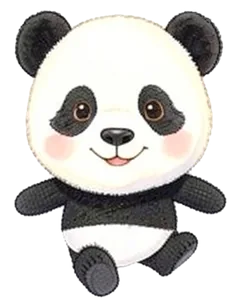
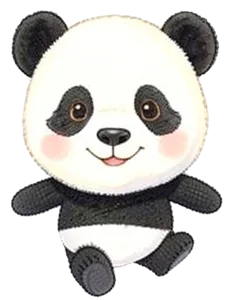
Miniroom: redraw panda back view (clean black and white, no paw pads)

diff --git a/public/js/views.js b/public/js/views.js
@@ -50,7 +50,7 @@ const MR_FRAMES = {
   '🐰': {"f0": [0.508, 0.313, 0.734, 0.664, 0.904, 0.8, 0.56, 0.107, 0.787, 0.788, 0.503], "fa": [0.505, 0.313, 0.739, 0.664, 0.893, 0.743, 0.565, 0.134, 0.7, 0.793, 0.505], "fb": [0.514, 0.307, 0.734, 0.657, 0.877, 0.723, 0.56, 0.15, 0.693, 0.832, 0.508], "s0": [0.541, 0.313, 0.647, 0.664, 0.807, 0.683, 0.457, 0.215, 0.857, 0.81, 0.543], "sa": [0.56, 0.313, 0.652, 0.664, 0.861, 0.723, 0.462, 0.052, 0.92, 0.832, 0.562], "sb": [0.541, 0.313, 0.647, 0.664, 0.899, 0.683, 0.462, 0.302, 0.81, 0.918, 0.541], "b0": [0.511, 0.32, 0.739, 0.671, 0.904, 0.8, 0.549, 0.112, 0.787, 0.799, 0.508], "ba": [0.514, 0.317, 0.734, 0.667, 0.893, 0.76, 0.538, 0.15, 0.827, 0.783, 0.514], "bb": [0.527, 0.297, 0.696, 0.647, 0.839, 0.757, 0.5, 0.237, 0.847, 0.777, 0.527]},
   '🐻': {"f0": [0.502, 0.037, 0.825, 0.654, 0.89, 0.747, 0.368, 0.115, 0.75, 0.861, 0.502], "fa": [0.502, 0.037, 0.816, 0.654, 0.876, 0.72, 0.359, 0.119, 0.673, 0.874, 0.502], "fb": [0.502, 0.027, 0.798, 0.644, 0.867, 0.663, 0.359, 0.137, 0.687, 0.888, 0.502], "s0": [0.489, 0.027, 0.735, 0.644, 0.733, 0.747, 0.408, 0.316, 0.713, 0.722, 0.482], "sa": [0.489, 0.03, 0.735, 0.647, 0.858, 0.81, 0.413, 0.151, 0.827, 0.839, 0.484], "sb": [0.489, 0.027, 0.735, 0.644, 0.751, 0.673, 0.408, 0.308, 0.693, 0.776, 0.482], "b0": [0.509, 0.037, 0.812, 0.654, 0.89, 0.747, 0.368, 0.137, 0.743, 0.861, 0.507], "ba": [0.52, 0.04, 0.78, 0.657, 0.845, 0.703, 0.368, 0.168, 0.797, 0.861, 0.516], "bb": [0.498, 0.03, 0.798, 0.647, 0.84, 0.703, 0.368, 0.213, 0.667, 0.848, 0.498]},
   '🦊': {"f0": [0.536, 0.137, 0.803, 0.68, 0.849, 0.767, 0.803, 0.206, 0.767, 0.832, 0.523], "fa": [0.536, 0.137, 0.803, 0.68, 0.828, 0.71, 0.803, 0.214, 0.707, 0.853, 0.523], "fb": [0.534, 0.133, 0.798, 0.677, 0.887, 0.697, 0.798, 0.206, 0.697, 0.895, 0.523], "s0": [0.561, 0.137, 0.592, 0.68, 0.731, 0.93, 0.382, 0.092, 0.7, 0.731, 0.548], "sa": [0.586, 0.137, 0.55, 0.68, 0.828, 0.7, 0.353, 0.159, 0.7, 0.853, 0.576], "sb": [0.563, 0.137, 0.588, 0.68, 0.794, 0.7, 0.387, 0.092, 0.7, 0.811, 0.55], "b0": [0.536, 0.137, 0.803, 0.68, 0.849, 0.767, 0.803, 0.222, 0.763, 0.836, 0.525], "ba": [0.538, 0.137, 0.798, 0.68, 0.824, 0.713, 0.798, 0.264, 0.7, 0.845, 0.525], "bb": [0.534, 0.137, 0.798, 0.68, 0.807, 0.7, 0.798, 0.21, 0.7, 0.819, 0.525]},
-  '🐼': {"f0": [0.517, 0.047, 0.808, 0.621, 0.905, 0.75, 0.808, 0.13, 0.737, 0.865, 0.517], "fa": [0.517, 0.047, 0.808, 0.621, 0.927, 0.703, 0.808, 0.056, 0.64, 0.904, 0.515], "fb": [0.52, 0.047, 0.812, 0.621, 0.958, 0.657, 0.812, 0.086, 0.667, 0.978, 0.515], "s0": [0.515, 0.01, 0.69, 0.584, 0.765, 0.837, 0.297, 0.261, 0.67, 0.742, 0.528], "sa": [0.515, 0.01, 0.69, 0.584, 0.835, 0.8, 0.293, 0.16, 0.603, 0.847, 0.526], "sb": [0.515, 0.01, 0.69, 0.584, 0.866, 0.603, 0.301, 0.213, 0.613, 0.886, 0.531], "b0": [0.52, 0.047, 0.803, 0.621, 0.901, 0.74, 0.803, 0.134, 0.75, 0.865, 0.517], "ba": [0.52, 0.047, 0.803, 0.621, 0.923, 0.753, 0.803, 0.069, 0.64, 0.882, 0.517], "bb": [0.522, 0.047, 0.808, 0.621, 0.853, 0.817, 0.808, 0.195, 0.64, 0.86, 0.52]},
+  '🐼': {"f0": [0.511, 0.047, 0.818, 0.621, 0.904, 0.75, 0.818, 0.118, 0.737, 0.862, 0.511], "fa": [0.511, 0.047, 0.818, 0.621, 0.926, 0.7, 0.818, 0.038, 0.64, 0.907, 0.509], "fb": [0.513, 0.047, 0.822, 0.621, 0.957, 0.657, 0.822, 0.074, 0.667, 0.978, 0.509], "s0": [0.509, 0.01, 0.698, 0.584, 0.762, 0.837, 0.298, 0.247, 0.683, 0.738, 0.522], "sa": [0.509, 0.01, 0.698, 0.584, 0.833, 0.8, 0.302, 0.145, 0.607, 0.844, 0.52], "sb": [0.509, 0.01, 0.698, 0.584, 0.864, 0.603, 0.311, 0.198, 0.62, 0.884, 0.524], "b0": [0.516, 0.057, 0.8, 0.631, 0.868, 0.73, 0.8, 0.163, 0.73, 0.836, 0.513], "ba": [0.516, 0.053, 0.809, 0.628, 0.868, 0.723, 0.809, 0.158, 0.733, 0.84, 0.516], "bb": [0.502, 0.047, 0.747, 0.621, 0.851, 0.64, 0.747, 0.172, 0.69, 0.871, 0.5]},
   '🐯': {"f0": [0.521, 0.03, 0.814, 0.657, 0.857, 0.767, 0.814, 0.194, 0.763, 0.823, 0.521], "fa": [0.521, 0.03, 0.814, 0.657, 0.882, 0.68, 0.814, 0.147, 0.677, 0.907, 0.521], "fb": [0.523, 0.023, 0.793, 0.65, 0.844, 0.67, 0.793, 0.198, 0.673, 0.84, 0.515], "s0": [0.492, 0.037, 0.688, 0.664, 0.726, 0.75, 0.435, 0.291, 0.833, 0.73, 0.462], "sa": [0.492, 0.037, 0.688, 0.664, 0.861, 0.843, 0.435, 0.143, 0.683, 0.734, 0.462], "sb": [0.492, 0.037, 0.688, 0.664, 0.806, 0.683, 0.435, 0.291, 0.697, 0.831, 0.462], "b0": [0.525, 0.027, 0.814, 0.654, 0.857, 0.76, 0.814, 0.202, 0.763, 0.823, 0.523], "ba": [0.536, 0.027, 0.793, 0.654, 0.832, 0.723, 0.793, 0.206, 0.8, 0.814, 0.536], "bb": [0.525, 0.027, 0.814, 0.654, 0.823, 0.673, 0.814, 0.181, 0.673, 0.797, 0.523]},
   '🐨': {"f0": [0.491, 0.093, 0.699, 0.628, 0.75, 0.763, 0.605, 0.239, 0.757, 0.707, 0.661], "fa": [0.489, 0.093, 0.696, 0.628, 0.776, 0.67, 0.605, 0.174, 0.67, 0.793, 0.658], "fb": [0.489, 0.093, 0.703, 0.628, 0.808, 0.647, 0.703, 0.184, 0.647, 0.826, 0.493], "s0": [0.5, 0.057, 0.681, 0.591, 0.685, 0.61, 0.0, 0.097, 0.81, 0.641, 0.511], "sa": [0.5, 0.057, 0.674, 0.591, 0.932, 0.61, 0.0, 0.097, 0.797, 0.953, 0.511], "sb": [0.504, 0.057, 0.681, 0.591, 0.747, 0.69, 0.0, 0.108, 0.793, 0.699, 0.511], "b0": [0.489, 0.093, 0.696, 0.628, 0.747, 0.76, 0.696, 0.25, 0.743, 0.71, 0.495], "ba": [0.491, 0.09, 0.699, 0.625, 0.863, 0.643, 0.605, 0.181, 0.643, 0.779, 0.661], "bb": [0.491, 0.093, 0.699, 0.628, 0.761, 0.663, 0.699, 0.224, 0.673, 0.783, 0.495]},
   '🐸': {"f0": [0.489, 0.11, 0.611, 0.645, 0.814, 0.747, 0.611, 0.167, 0.733, 0.813, 0.486], "fa": [0.486, 0.1, 0.611, 0.635, 0.738, 0.867, 0.611, 0.193, 0.8, 0.734, 0.486], "fb": [0.489, 0.107, 0.611, 0.642, 0.867, 0.66, 0.611, 0.088, 0.677, 0.883, 0.486], "s0": [0.525, 0.11, 0.253, 0.645, 0.668, 0.69, 0.253, 0.234, 0.677, 0.69, 0.503], "sa": [0.527, 0.11, 0.25, 0.645, 0.893, 0.8, 0.25, 0.101, 0.877, 0.687, 0.503], "sb": [0.527, 0.11, 0.256, 0.645, 0.722, 0.67, 0.256, 0.247, 0.663, 0.747, 0.505], "b0": [0.475, 0.1, 0.639, 0.635, 0.798, 0.727, 0.639, 0.18, 0.72, 0.801, 0.475], "ba": [0.475, 0.1, 0.639, 0.635, 0.852, 0.653, 0.639, 0.199, 0.803, 0.734, 0.475], "bb": [0.476, 0.1, 0.636, 0.635, 0.798, 0.727, 0.636, 0.18, 0.73, 0.801, 0.475]},
